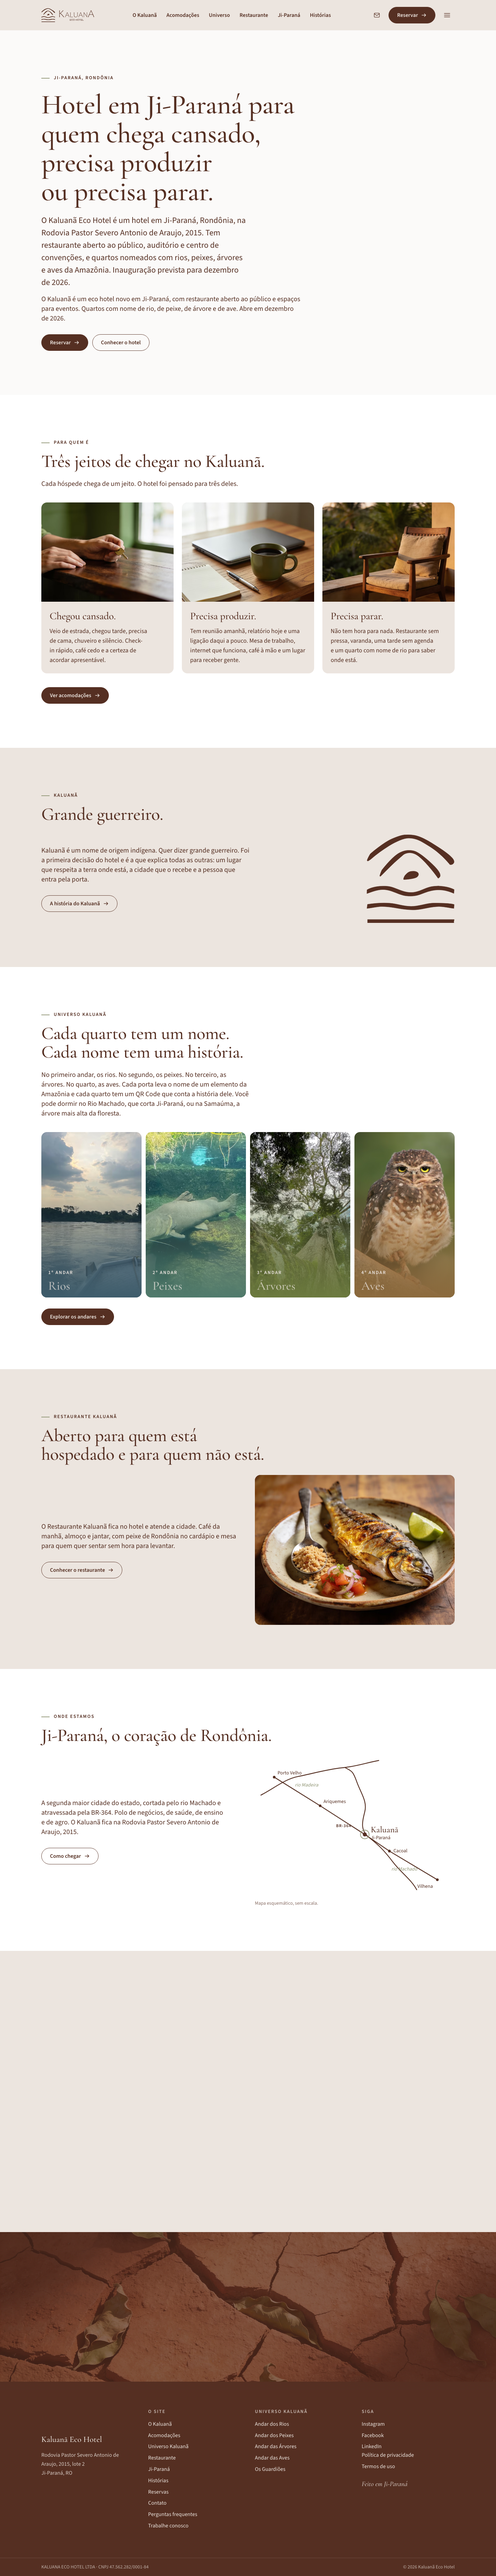
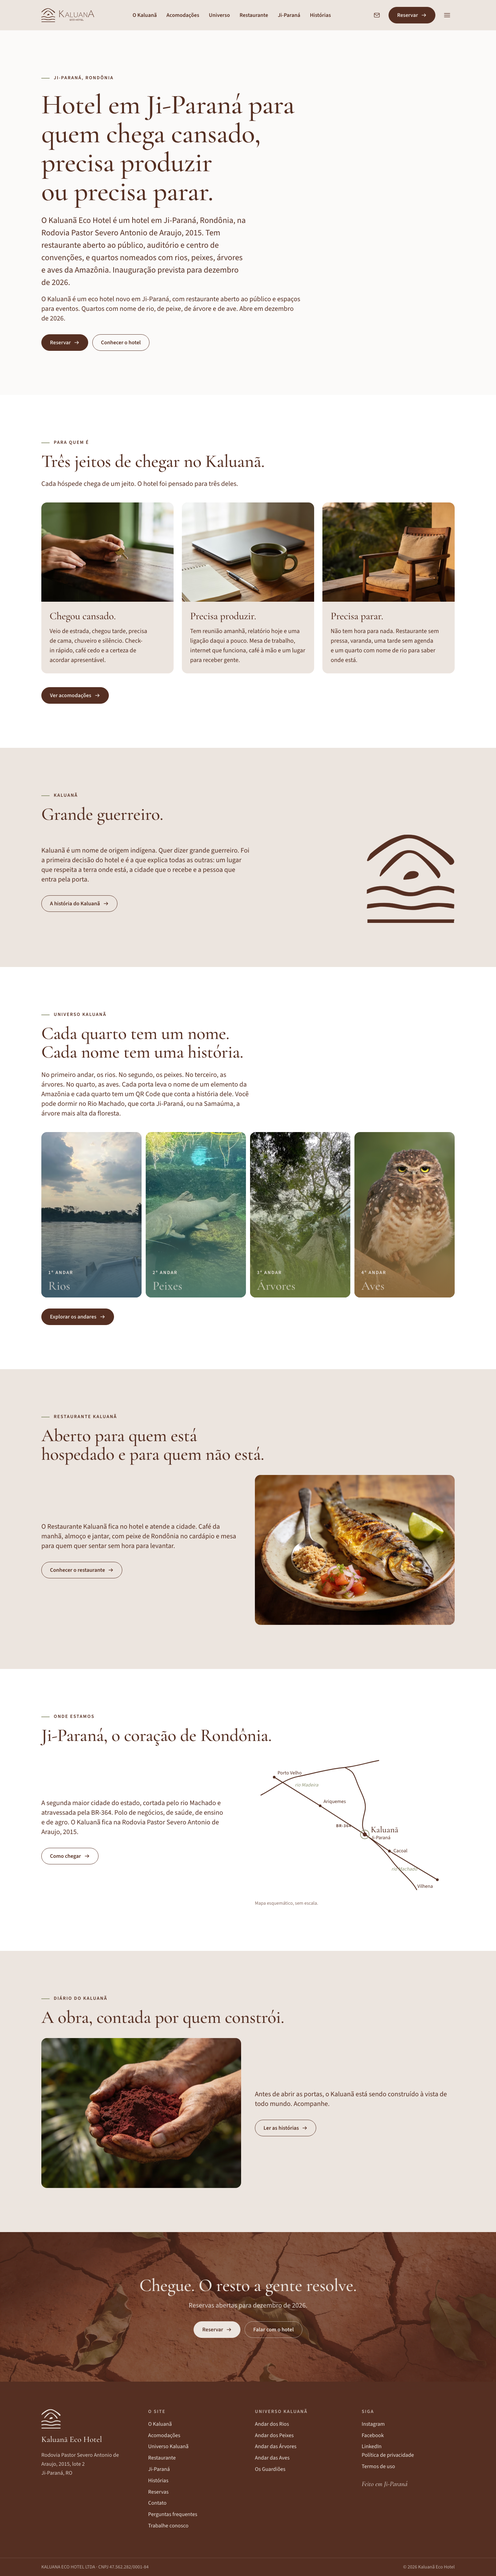
Ajusta a rolagem das capturas de tela e atualiza as capturas da etapa 1

Changed region(s): [[0.0625, 0.7793, 0.5, 0.9351]]

diff --git a/app/tokens.css b/app/tokens.css
@@ -1,19 +1,19 @@
 /* Gerado por scripts/build-tokens.ts a partir de lib/tokens.ts. Não editar à mão. */
 @theme {
-  --color-cafe: #552f22;
+  --color-cafe: #552F22;
   --color-salvia: #929777;
-  --color-bege: #ece5df;
-  --color-branco: #ffffff;
+  --color-bege: #ECE5DF;
+  --color-branco: #FFFFFF;
   --color-preto: #101010;
-  --color-cafe-escuro: #4e2b1f;
-  --color-bege-escuro: #ded4cb;
-  --color-rios: #3e5c6b;
-  --color-peixes: #4f7a6b;
-  --color-arvores: #6b7a3e;
-  --color-aves: #8c6a3d;
-  --color-guardioes: #552f22;
-  --font-sans: var(--font-source-sans), "Source Sans 3", system-ui, sans-serif;
-  --font-display: var(--font-cormorant), "Cormorant Garamond", Georgia, serif;
+  --color-cafe-escuro: #4E2B1F;
+  --color-bege-escuro: #DED4CB;
+  --color-rios: #3E5C6B;
+  --color-peixes: #4F7A6B;
+  --color-arvores: #6B7A3E;
+  --color-aves: #8C6A3D;
+  --color-guardioes: #552F22;
+  --font-sans: var(--font-source-sans), 'Source Sans 3', system-ui, sans-serif;
+  --font-display: var(--font-cormorant), 'Cormorant Garamond', Georgia, serif;
   --text-xs: 0.75rem;
   --text-sm: 0.875rem;
   --text-base: 1rem;

diff --git a/scripts/screenshots.ts b/scripts/screenshots.ts
@@ -43,11 +43,14 @@ const targets = [
     await page.waitForTimeout(1500);
     await page.evaluate(async () => {
       // rola até o fim para disparar as entradas por interseção
-      const step = window.innerHeight / 2;
+      // passos curtos e pausas para o IntersectionObserver ver cada seção entrar na tela
+      const step = window.innerHeight / 3;
       for (let y = 0; y < document.body.scrollHeight; y += step) {
         window.scrollTo(0, y);
-        await new Promise((r) => setTimeout(r, 120));
+        await new Promise((r) => setTimeout(r, 200));
       }
+      window.scrollTo(0, document.body.scrollHeight);
+      await new Promise((r) => setTimeout(r, 1000));
       window.scrollTo(0, 0);
       await new Promise((r) => setTimeout(r, 2500));
     });
